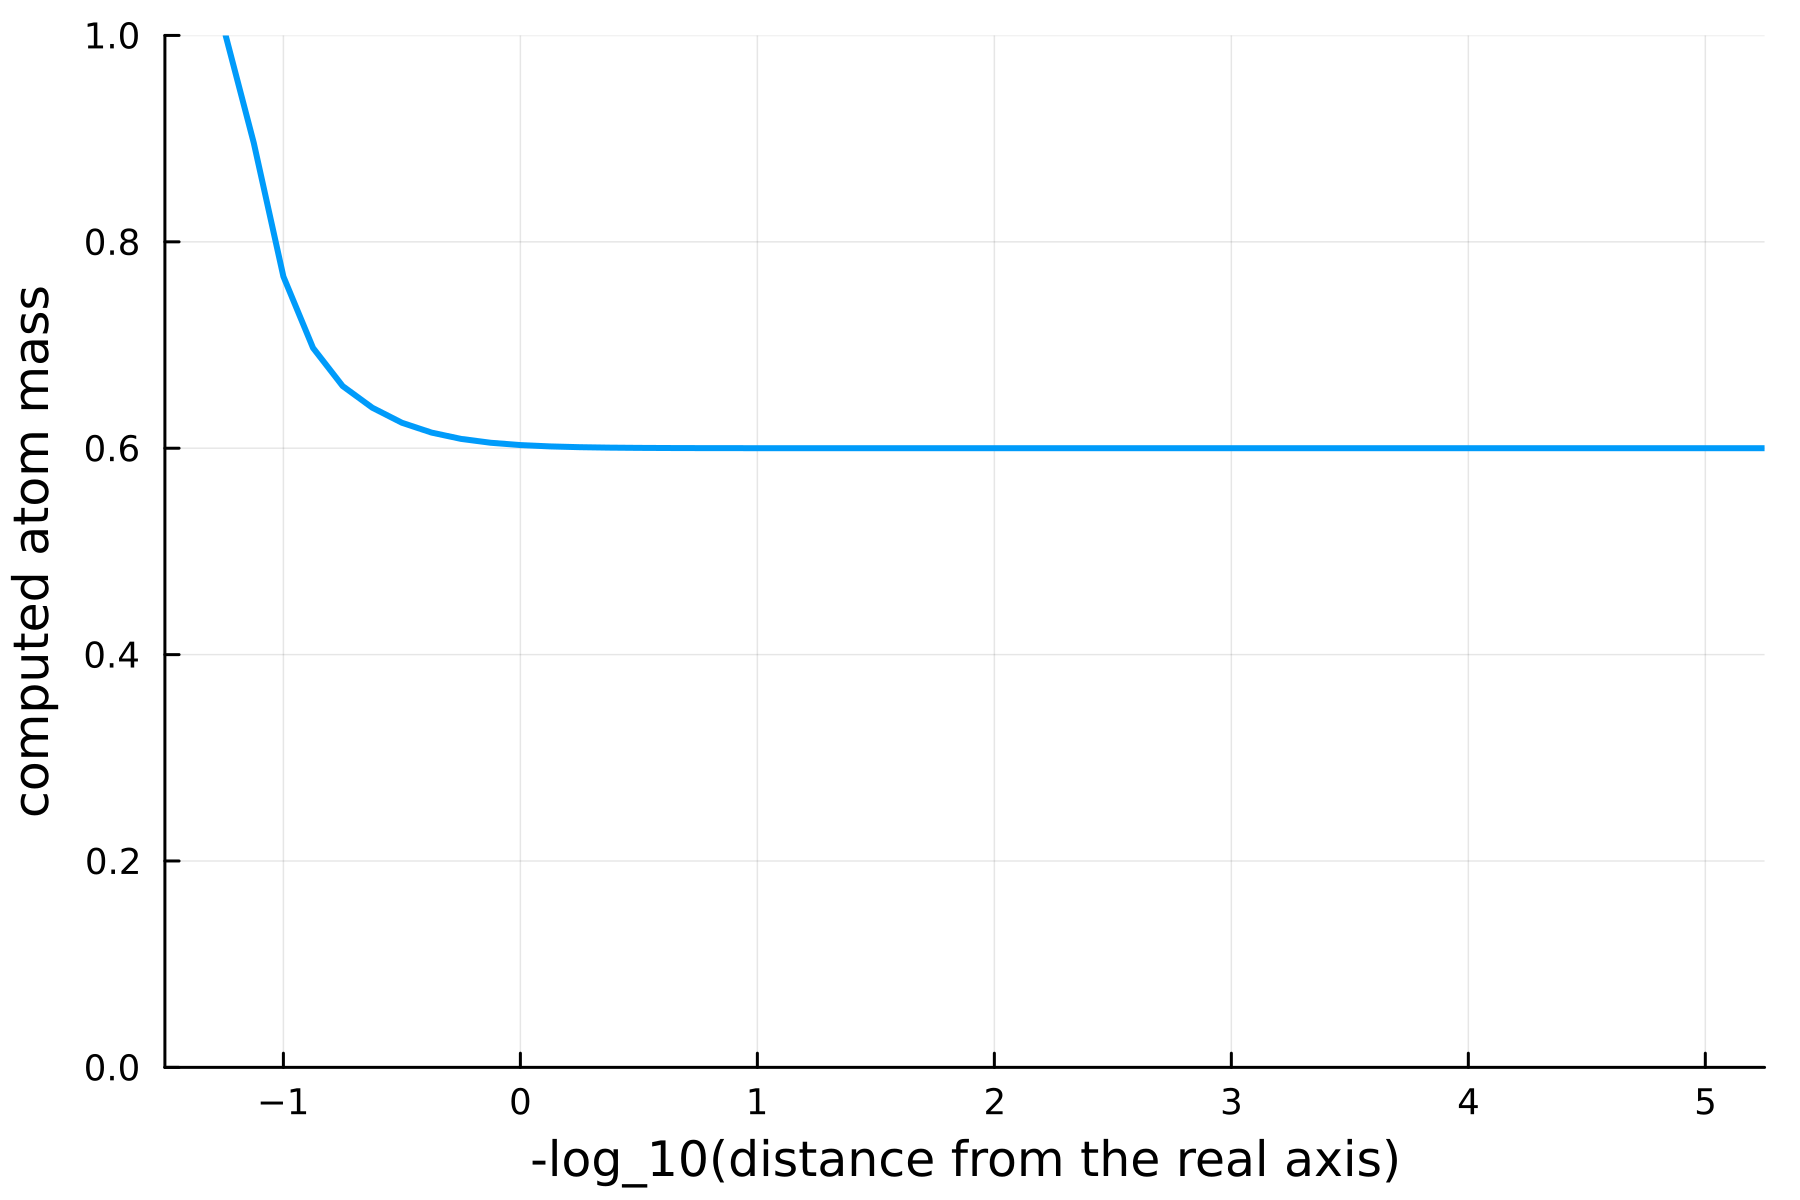
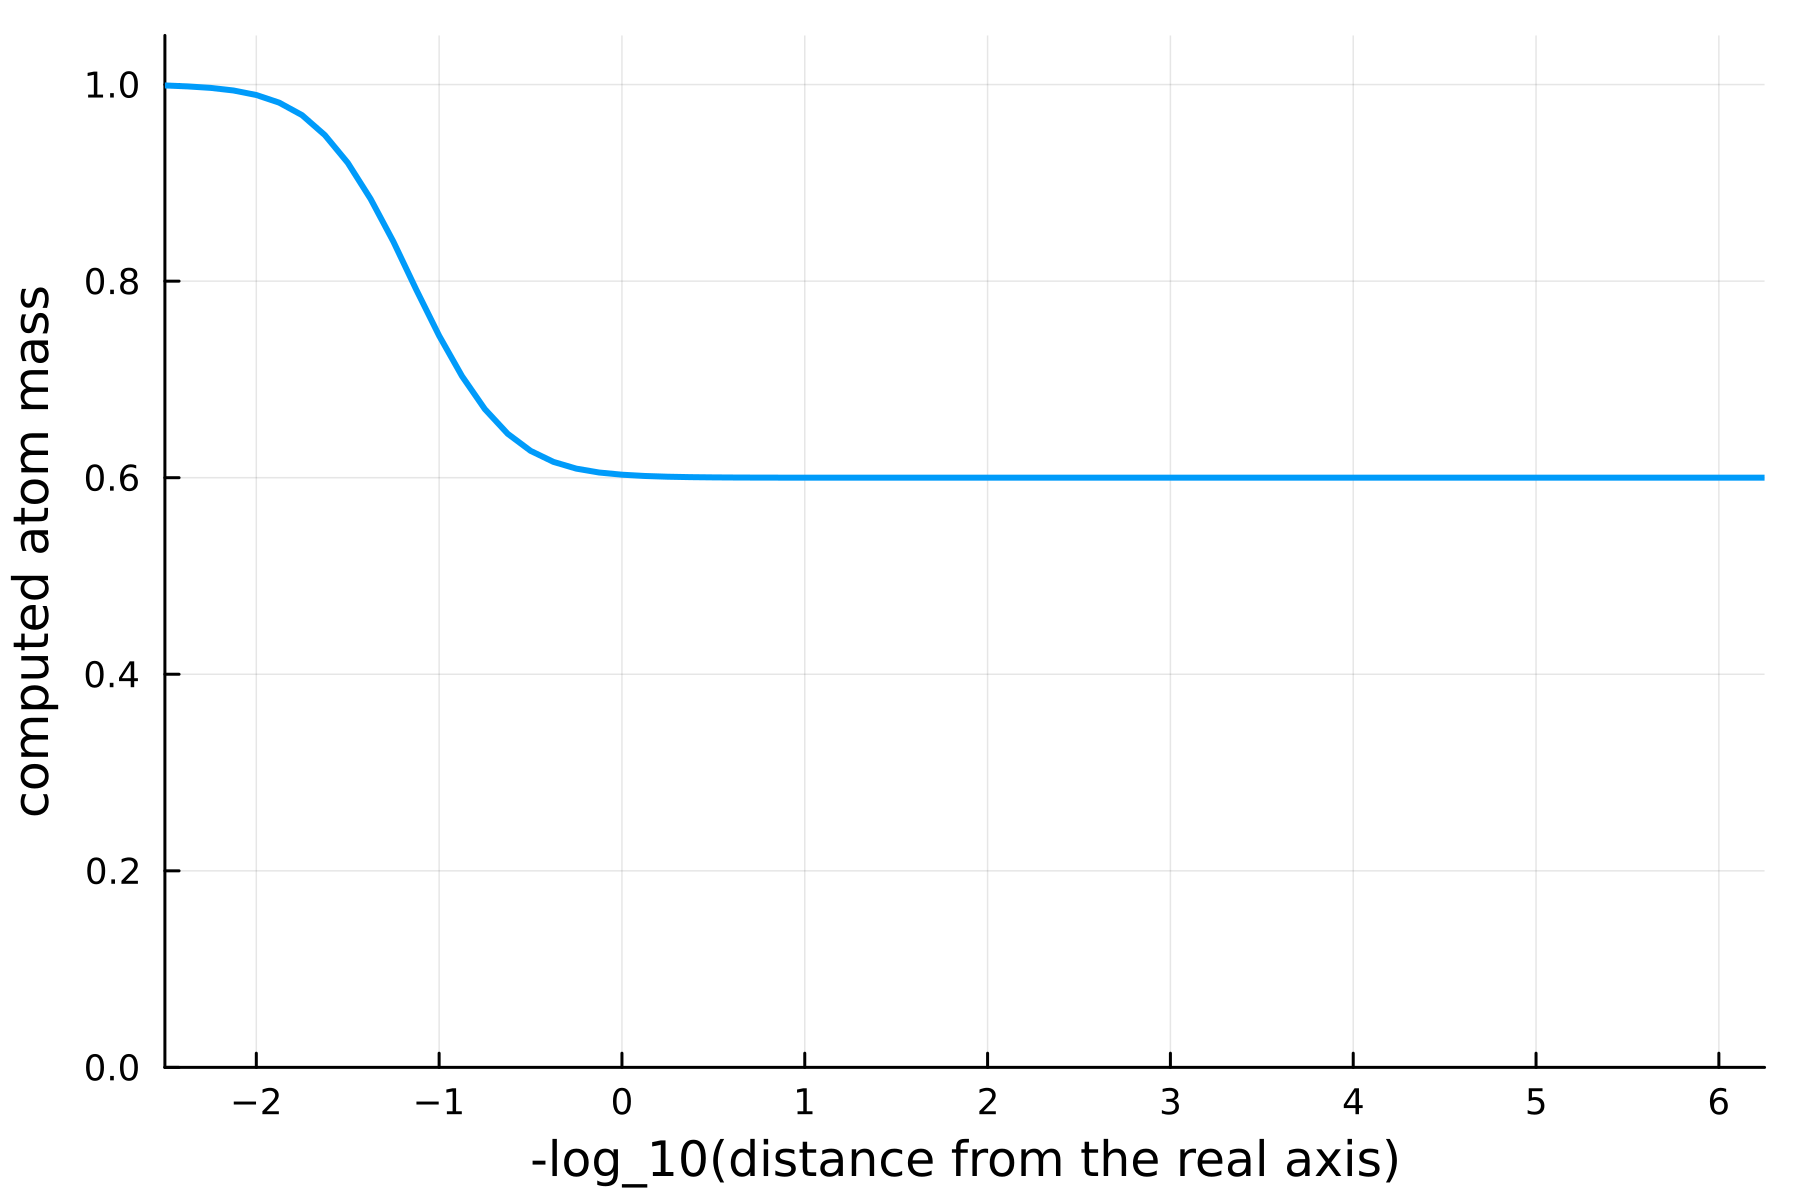
updated shift example in docs

diff --git a/README.md b/README.md
@@ -280,6 +280,8 @@ function shift_comparison(
         linewidth = 2,
         xlabel = "-log_10(distance from the real axis)",
         ylabel = "computed atom mass",
+        xticks = ceil(minimum(shift_range)):1:floor(maximum(shift_range)),
+        yticks = 0:0.2:1,
         xlims = (minimum(shifts), maximum(shifts)),
         ylims = (0,1),
         dpi = 300
@@ -315,7 +317,7 @@ Now we can apply this to our example:
 Choose a range of shifts and plot the results:
 
 ```julia
-    shift_range = -1.5:0.125:5.25
+    shift_range = -2.5:0.125:6.25
     shift_comparison(L, shift_range)
 ```
 
